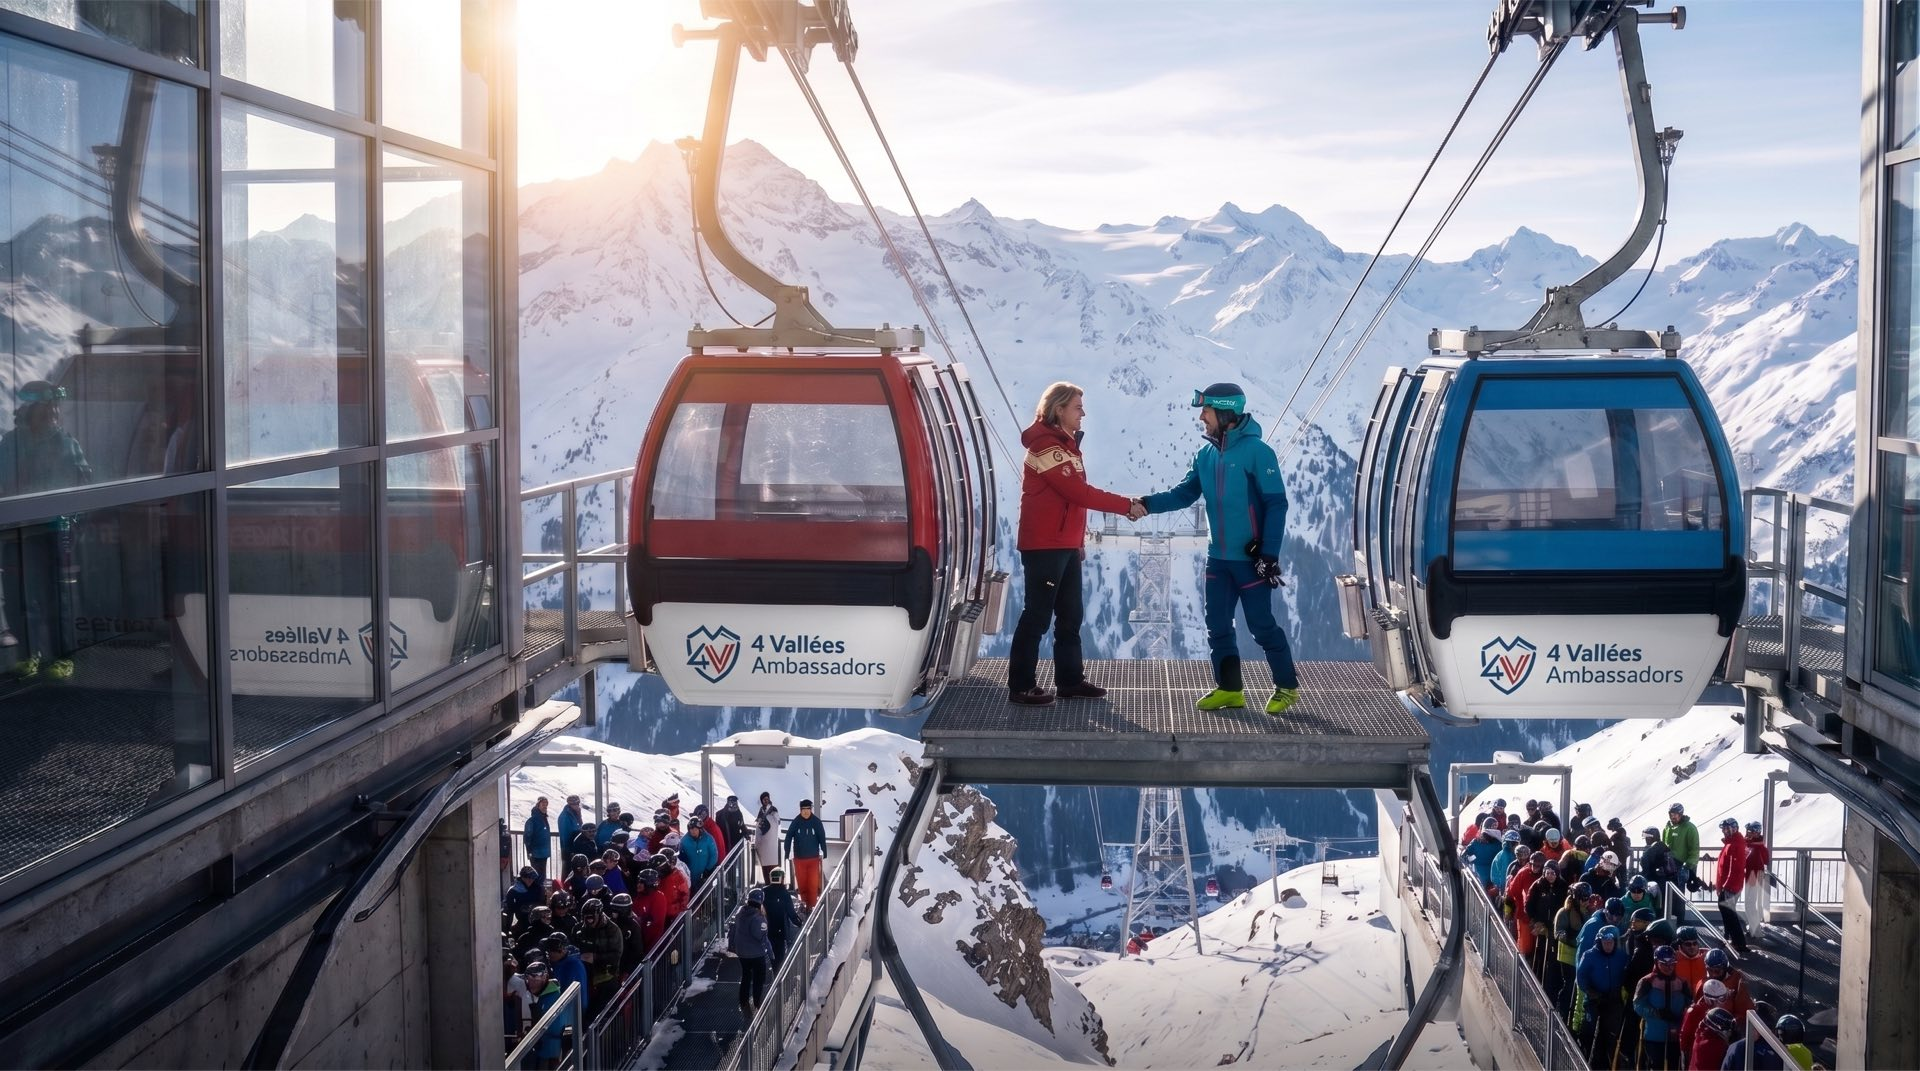
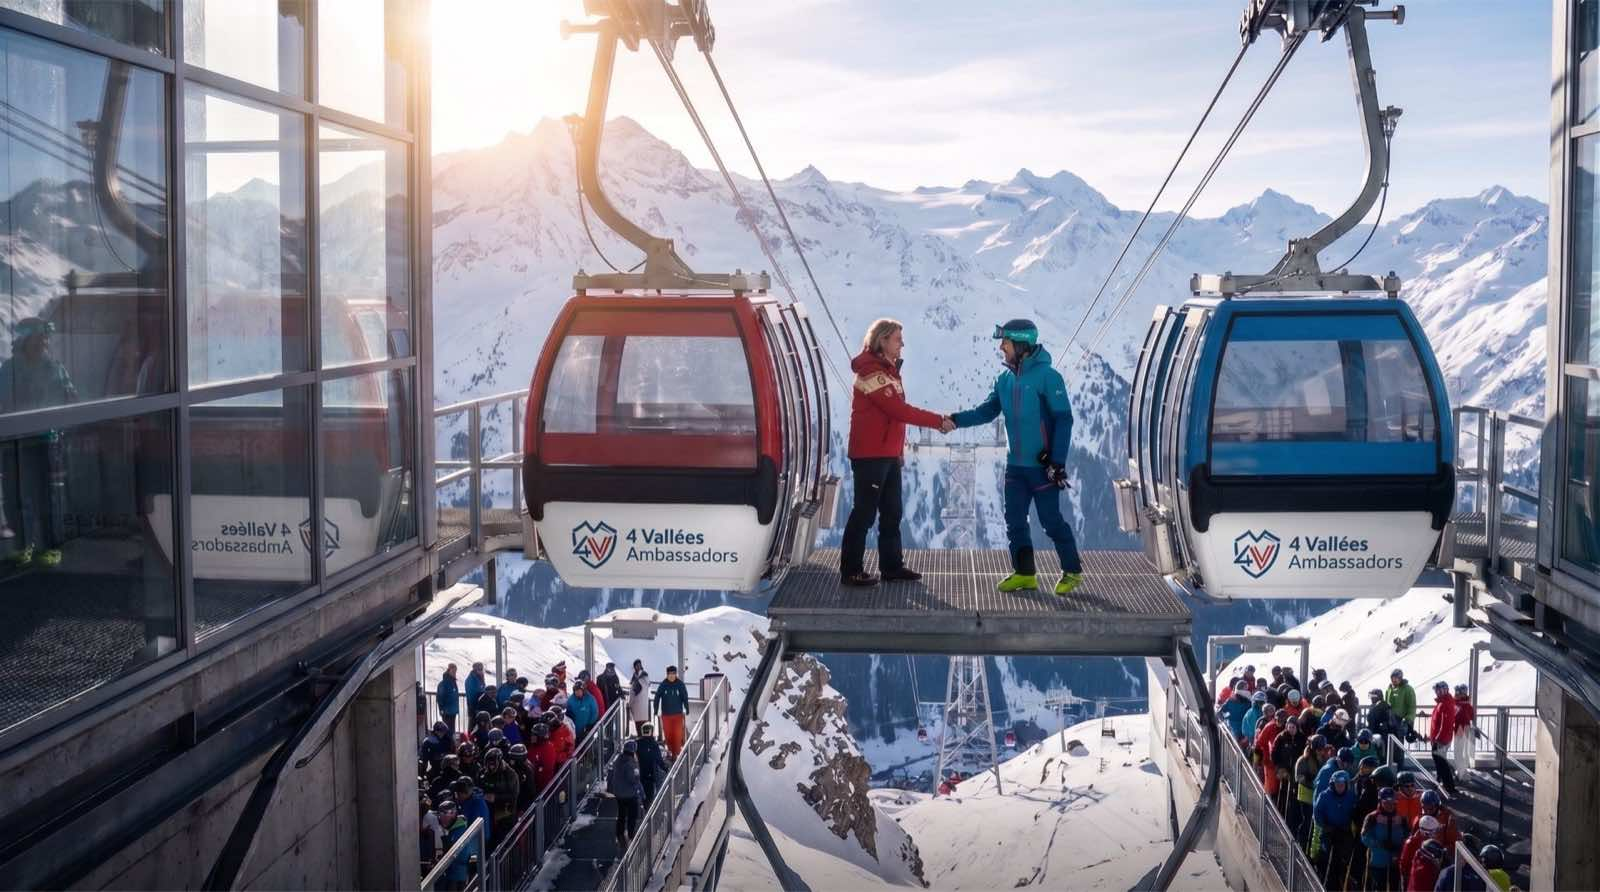
VERB-58: apply Lighthouse perf fixes — hero image, render-blocking fonts, cache headers (#65)
- Resize hero.jpg from 1920×1071 to 1600×892 and recompress at JPEG
  quality 35 (sips): 374 KB → 142 KB (~62% reduction). The dark scrim
  overlay on the hero makes artefacts imperceptible.
- Update <img width/height> in home.html to match new intrinsic dimensions
  (1600×892) so the browser reserves the correct layout box and avoids CLS.
  fetchpriority="high" is retained (LCP element; must not be lazy-loaded).
- Switch Google Fonts stylesheet to non-blocking load pattern
  (media="print" onload="this.media='all'") with a <noscript> fallback
  so the font sheet no longer blocks first paint. display=swap in the URL
  already ensures text renders in a system font while the webfont downloads.
- Add comment to production.py confirming that CompressedManifestStaticFilesStorage
  gives WhiteNoise immutable 1-year cache headers automatically — no
  WHITENOISE_MAX_AGE override is needed.

diff --git a/templates/base.html b/templates/base.html
@@ -17,10 +17,25 @@
         <link rel="icon" href="{% static 'favicon.svg' %}" type="image/svg+xml">
         <link rel="preconnect" href="https://fonts.googleapis.com">
         <link rel="preconnect" href="https://fonts.gstatic.com" crossorigin>
+        {% comment %}
+        Non-blocking font load: media="print" defers the stylesheet from the
+        render-blocking critical path; onload switches it to "all" once the
+        sheet is downloaded. The <noscript> fallback covers JS-disabled agents.
+        display=swap is already in the URL so text renders immediately in a
+        system font while the webfont downloads.
+        {% endcomment %}
         <link
             href="https://fonts.googleapis.com/css2?family=Space+Grotesk:wght@400;500;600;700&family=Hanken+Grotesk:wght@400;500;600;700&family=Space+Mono:wght@400;700&display=swap"
             rel="stylesheet"
+            media="print"
+            onload="this.media='all'"
         >
+        <noscript>
+            <link
+                href="https://fonts.googleapis.com/css2?family=Space+Grotesk:wght@400;500;600;700&family=Hanken+Grotesk:wght@400;500;600;700&family=Space+Mono:wght@400;700&display=swap"
+                rel="stylesheet"
+            >
+        </noscript>
         <link rel="stylesheet" href="{% static 'css/output.css' %}">
         <script src="https://unpkg.com/htmx.org@2.0.4" defer></script>
     </head>

diff --git a/templates/public/home.html b/templates/public/home.html
@@ -40,8 +40,8 @@ Palette: accent = alpine red (#cf3127, Ambassador), secondary = brand blue
         <img
             src="{% static 'images/hero.jpg' %}"
             alt='{% translate "Two people — one in a red jacket, one in blue — shaking hands on a platform between a red gondola and a blue gondola, both branded 4 Vallées Ambassadors, with alpine peaks behind" %}'
-            width="1920"
-            height="1071"
+            width="1600"
+            height="892"
             fetchpriority="high"
             class="absolute inset-0 h-full w-full object-cover object-[62%_center] sm:object-center"
         >

diff --git a/config/settings/production.py b/config/settings/production.py
@@ -22,6 +22,10 @@ DATABASES = {
 }
 
 # WhiteNoise with hashed, compressed filenames for cache-busting.
+# CompressedManifestStaticFilesStorage appends a content hash to every
+# filename, so WhiteNoise serves those files with
+# Cache-Control: max-age=31536000, immutable automatically — no
+# WHITENOISE_MAX_AGE override is required.
 STORAGES["staticfiles"] = {  # noqa: F405
     "BACKEND": "whitenoise.storage.CompressedManifestStaticFilesStorage",
 }